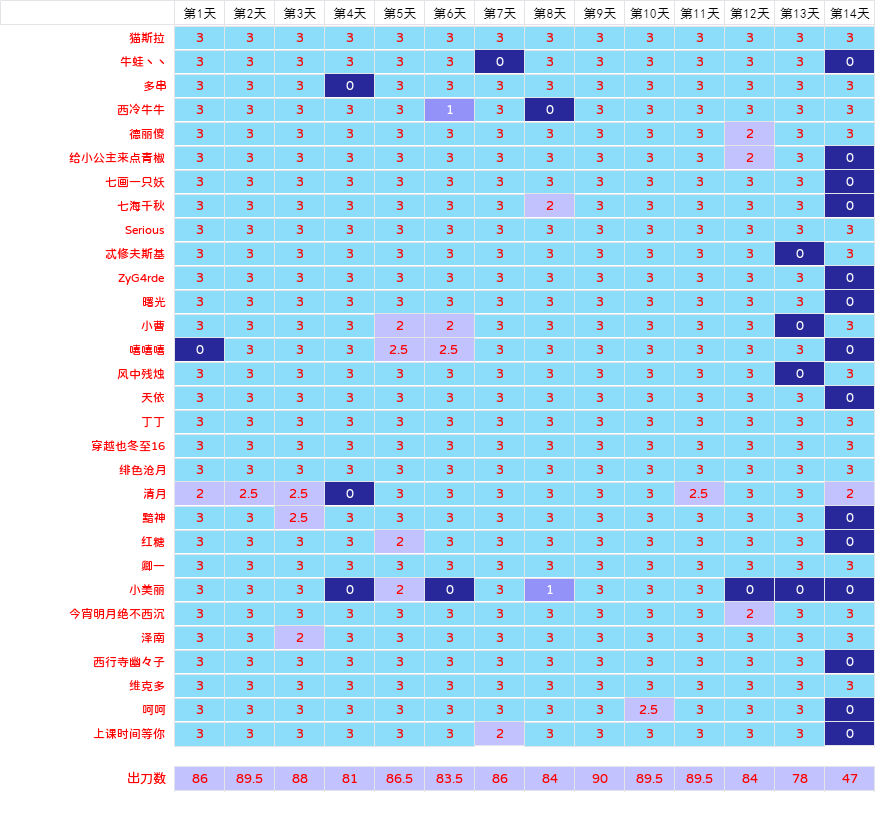
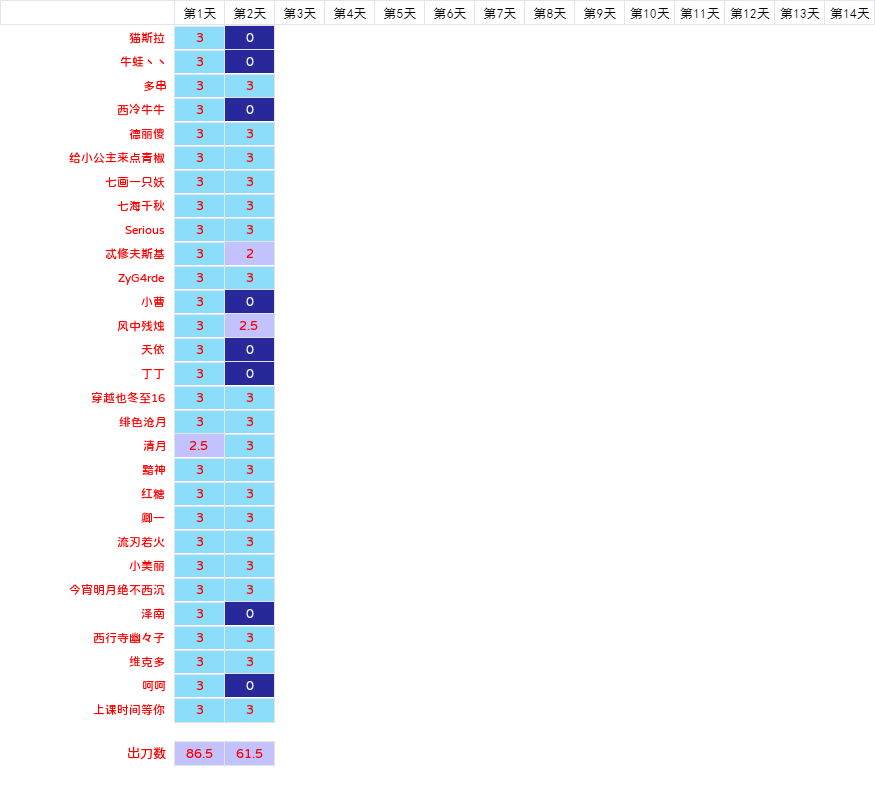
适配新的百宝袋API

diff --git a/payload/function.py b/payload/function.py
@@ -2,7 +2,7 @@
 Author: 七画一只妖 1157529280@qq.com
 Date: 2023-03-27 09:05:56
 LastEditors: 七画一只妖 1157529280@qq.com
-LastEditTime: 2023-04-21 17:13:46
+LastEditTime: 2023-06-24 13:06:33
 FilePath: \060坎公骑冠剑会战工具\function.py
 Description: 这是默认设置,请设置`customMade`, 打开koroFileHeader查看配置 进行设置: https://github.com/OBKoro1/koro1FileHeader/wiki/%E9%85%8D%E7%BD%AE
 '''
@@ -12,16 +12,20 @@ import requests
 import httpx
 
 from .setting import DAMAGE_URL, RATE_URL, DAO_IMAGE, DAO_DAILY, DAMAGE_TOTAL
-from .cookies import header, header2
+from .cookies import header, header2, APP_KEY
 from .utils.data_utils import save_data
 
 BASE_PATH: str = Path(__file__).absolute().parents[0]
 
 
 async def f_get_user_data(date:str) -> dict:
+
+    url = f"""
+https://api.game.bilibili.com/game/player/tools/kan_gong/fight_report?ts=1687582295973&nonce=f1e7b034-d50e-40fe-af1f-00af9fc212f2&appkey={APP_KEY}&sign=e3bca73d6c554cdb51a9ed05e5431497"""
+
     try:
         async with httpx.AsyncClient(timeout=None) as client:
-            r = await client.get(url=DAMAGE_URL + date, headers=header)
+            r = await client.get(url=url + date, headers=header)
             re_data: dict = r.json()
             save_data(f"{BASE_PATH}\\data\\user_data.json", re_data)
             data = re_data["data"]
@@ -33,12 +37,15 @@ async def f_get_user_data(date:str) -> dict:
 
 
 async def f_get_damage_data(date:str):
+    url = f"""https://api.game.bilibili.com/game/player/tools/kan_gong/fight_report?ts=1687582295973&nonce=f1e7b034-d50e-40fe-af1f-00af9fc212f2&appkey={APP_KEY}&sign=e3bca73d6c554cdb51a9ed05e5431497"""
+
+    url2 = f"""https://api.game.bilibili.com/game/player/tools/kan_gong/fight_report?date={date}&ts=1687582528332&nonce=c05a9707-f5ee-42fc-87b5-3e4db005fb70&appkey={APP_KEY}&sign=7664f1d3cdb1316bcf123e3894efeee2"""
     try:
         async with httpx.AsyncClient(timeout=None) as client:
             if date:
-                r = await client.get(url=DAMAGE_URL + date, headers=header)
+                r = await client.get(url=url2, headers=header)
             else:
-                r = await client.get(url=DAMAGE_URL, headers=header)
+                r = await client.get(url=url, headers=header)
             re_data: dict = r.json()
             save_data(f"{BASE_PATH}\\data\\damage_data.json", re_data)
             data = re_data["data"]
@@ -50,9 +57,10 @@ async def f_get_damage_data(date:str):
 
 
 async def f_get_rate_data():
+    url = f"""https://api.game.bilibili.com/game/player/tools/kan_gong/fight_news?ts=1687583171294&nonce=286263db-9437-493f-bc4f-25ec6b1326ee&appkey={APP_KEY}&sign=73bb681870500d80828ec38ebf751bbc"""
     try:
         async with httpx.AsyncClient(timeout=None) as client:
-            r = await client.get(url=RATE_URL, headers=header)
+            r = await client.get(url=url, headers=header)
             re_data: dict = r.json()
             data = re_data["data"]
             return data

diff --git a/payload/dao.py b/payload/dao.py
@@ -2,7 +2,7 @@
 Author: 七画一只妖 1157529280@qq.com
 Date: 2023-03-27 10:45:06
 LastEditors: 七画一只妖 1157529280@qq.com
-LastEditTime: 2023-04-21 17:13:54
+LastEditTime: 2023-06-24 13:08:54
 '''
 from PIL import Image, ImageDraw, ImageFont
 from pathlib import Path
@@ -35,11 +35,15 @@ async def get_data(date: str = None):
 
     d_data: dict = await f_get_damage_data(date)
 
+    if date == None:
+        date = datetime.datetime.now().strftime("%Y-%m-%d")
+
     # 数据整合（生成排版文字）
     text1 = f"""===今日数据（{date}，第1-10名）===\n\n"""
     text2 = f"""===今日数据（{date}，第11-20名）===\n\n"""
     text3 = f"""===今日数据（{date}，第21-30名）===\n\n"""
     d_data = data_format(d_data)
+    d_data = d_data["info"]
     for index, item in enumerate(sorted(d_data, key=lambda i: i["damage_total"], reverse=True), 1):
         fight_total = sum([1 if d_tiem["is_kill"] == 1 else 2 for d_tiem in item["damage_list"]])
         fight_total = min(fight_total, 6) * 0.5
@@ -91,6 +95,7 @@ async def get_data_total():
     total_data: dict = {}
     for date in FIGHT_LIST:
         date: dict = await f_get_damage_data(date)
+        date = date["info"]
         for item in date:
             # 先遍历有效出刀数
             fight_total = 0
@@ -185,13 +190,13 @@ async def get_rate():
 
     # 数据转换
     data: list = []
-    for item in resp_data["boss"][-4:]:
-        data_item = [str(item["name"]),
+    for item in resp_data["boss_info"][-4:]:
+        data_item = [str(item["boss_name"]),
                      str(item["level"]),
                      item["elemental_type_cn"],
-                     str(item["total_hp"]),
-                     str(item["remain_hp"]),
-                     _percentage(item["remain_hp"],item["total_hp"])]
+                     str(item["boss_hp"]),
+                     str(item["boss_remain_hp"]),
+                     _percentage(item["boss_remain_hp"],item["boss_hp"])]
         data.append(data_item)
 
     # Define column widths

diff --git a/payload/setting.py b/payload/setting.py
@@ -2,7 +2,7 @@
 Author: 七画一只妖 1157529280@qq.com
 Date: 2023-03-27 09:43:07
 LastEditors: 七画一只妖 1157529280@qq.com
-LastEditTime: 2023-04-14 22:53:37
+LastEditTime: 2023-06-24 12:38:20
 '''
 
 
@@ -25,18 +25,18 @@ DAO_DAILY = f"""https://ww2.ren/?webtype=mmqch&oty=newcode_tx&oty2=jpg_ghdamage3
 DAMAGE_TOTAL = f"""https://ww2.ren/?webtype=mmqch&oty=newcode_tx&oty2=jpg_ghzongdamage_xi&qi=195421679838539&rd=89181165"""
 
 # 会战日期（14天）
-FIGHT_LIST = ["2023-06-02",
-              "2023-06-03",
-              "2023-06-04",
-              "2023-06-05",
-              "2023-06-06",
-              "2023-06-07",
-              "2023-06-08",
-              "2023-06-09",
-              "2023-06-10",
-              "2023-06-11",
-              "2023-06-12",
-              "2023-06-13",
-              "2023-06-14",
-              "2023-06-15",
+FIGHT_LIST = ["2023-06-23",
+              "2023-06-24",
+              "2023-06-25",
+              "2023-06-26",
+              "2023-06-27",
+              "2023-06-28",
+              "2023-06-29",
+              "2023-06-30",
+              "2023-07-01",
+              "2023-07-02",
+              "2023-07-03",
+              "2023-07-04",
+              "2023-07-05",
+              "2023-07-06",
               ]

diff --git a/main.py b/main.py
@@ -2,7 +2,7 @@
 Author: 七画一只妖 1157529280@qq.com
 Date: 2023-03-27 09:01:10
 LastEditors: 七画一只妖 1157529280@qq.com
-LastEditTime: 2023-06-02 18:59:31
+LastEditTime: 2023-06-24 13:05:17
 FilePath: \060坎公骑冠剑会战工具\main.py
 Description: 这是默认设置,请设置`customMade`, 打开koroFileHeader查看配置 进行设置: https://github.com/OBKoro1/koro1FileHeader/wiki/%E9%85%8D%E7%BD%AE
 '''
@@ -15,13 +15,13 @@ import asyncio
 loop = asyncio.get_event_loop()
 
 # 日报
-loop.run_until_complete(dao.get_data())
+# loop.run_until_complete(dao.get_data())
 
 # 总伤害排行
 # loop.run_until_complete(dao.get_data_total())
 
 # 进度
-# print(loop.run_until_complete(dao.get_rate()))
+print(loop.run_until_complete(dao.get_rate()))
 
 # 获取出刀总数统计表的图片
 # print(loop.run_until_complete(dao.get_dao_total_image()))

diff --git a/payload/utils/data_utils.py b/payload/utils/data_utils.py
@@ -2,7 +2,7 @@
 Author: 七画一只妖 1157529280@qq.com
 Date: 2023-03-27 09:55:54
 LastEditors: 七画一只妖 1157529280@qq.com
-LastEditTime: 2023-06-02 19:00:43
+LastEditTime: 2023-06-24 13:00:31
 '''
 import json
 
@@ -18,7 +18,7 @@ def save_data(path: str, data: dict) -> None:
 
 
 def data_format(data):
-    for item in data:
+    for item in data["info"]:
         for d_item in item["damage_list"]:
             d_item["boss_name"] = _data_format(d_item["boss_name"])
     return data
@@ -47,6 +47,7 @@ def _data_format(name):
         "boss_portrait_guild_43th":"画像",
         "boss_invader_director_guild":"导演",
         "机械人艾瑞娜":"奶奶",
-        "愤怒的牛头人":"牛头"
+        "愤怒的牛头人":"牛头",
+        "熔岩史莱姆国王":"史莱姆"
     }
     return data[name]

diff --git a/README.md b/README.md
@@ -2,7 +2,7 @@
  * @Author: 七画一只妖 1157529280@qq.com
  * @Date: 2023-03-27 09:43:36
  * @LastEditors: 七画一只妖 1157529280@qq.com
- * @LastEditTime: 2023-03-31 10:13:39
+ * @LastEditTime: 2023-06-24 13:27:35
  * @FilePath: \060坎公骑冠剑会战工具\README.md
  * @Description: 这是默认设置,请设置`customMade`, 打开koroFileHeader查看配置 进行设置: https://github.com/OBKoro1/koro1FileHeader/wiki/%E9%85%8D%E7%BD%AE
 -->
@@ -31,6 +31,8 @@ header = {
     "connection": "keep-alive",
     "cookie": "你的cookies",
 }
+
+APP_KEY = "你的appkey"
 ~~~
 
 2.如何获取cookies？
